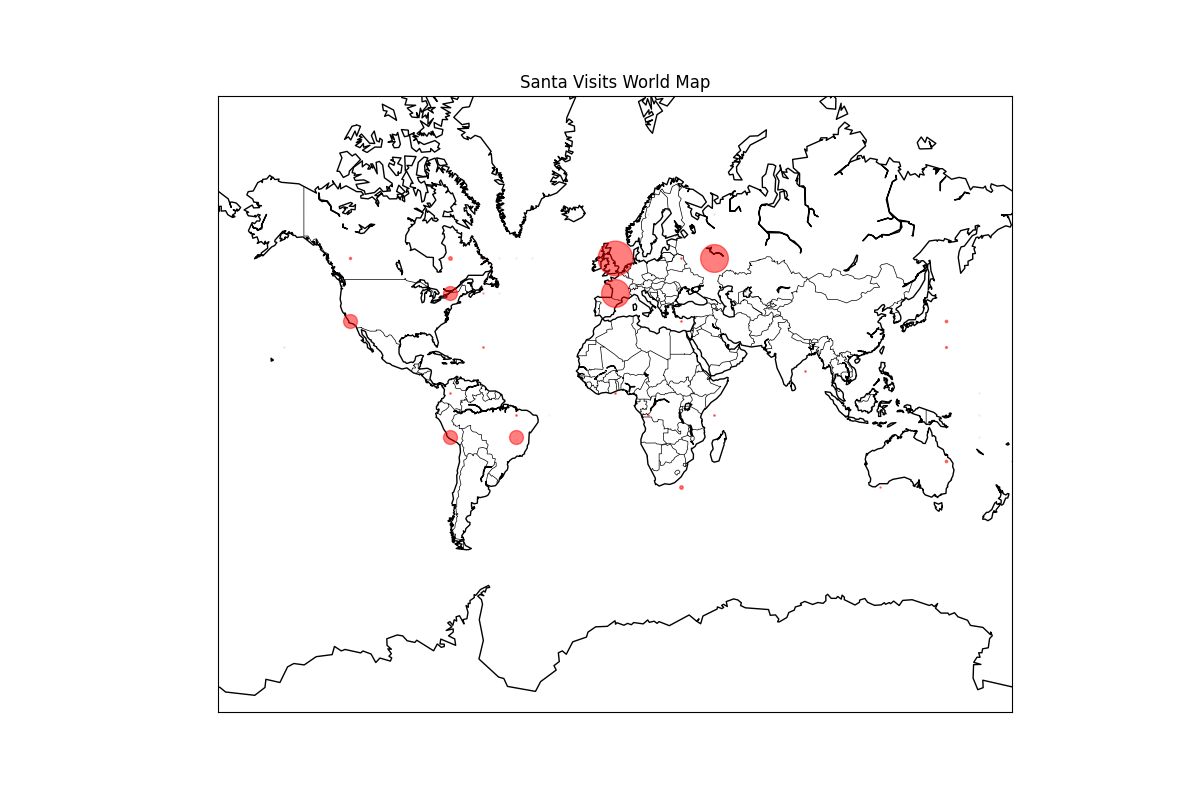
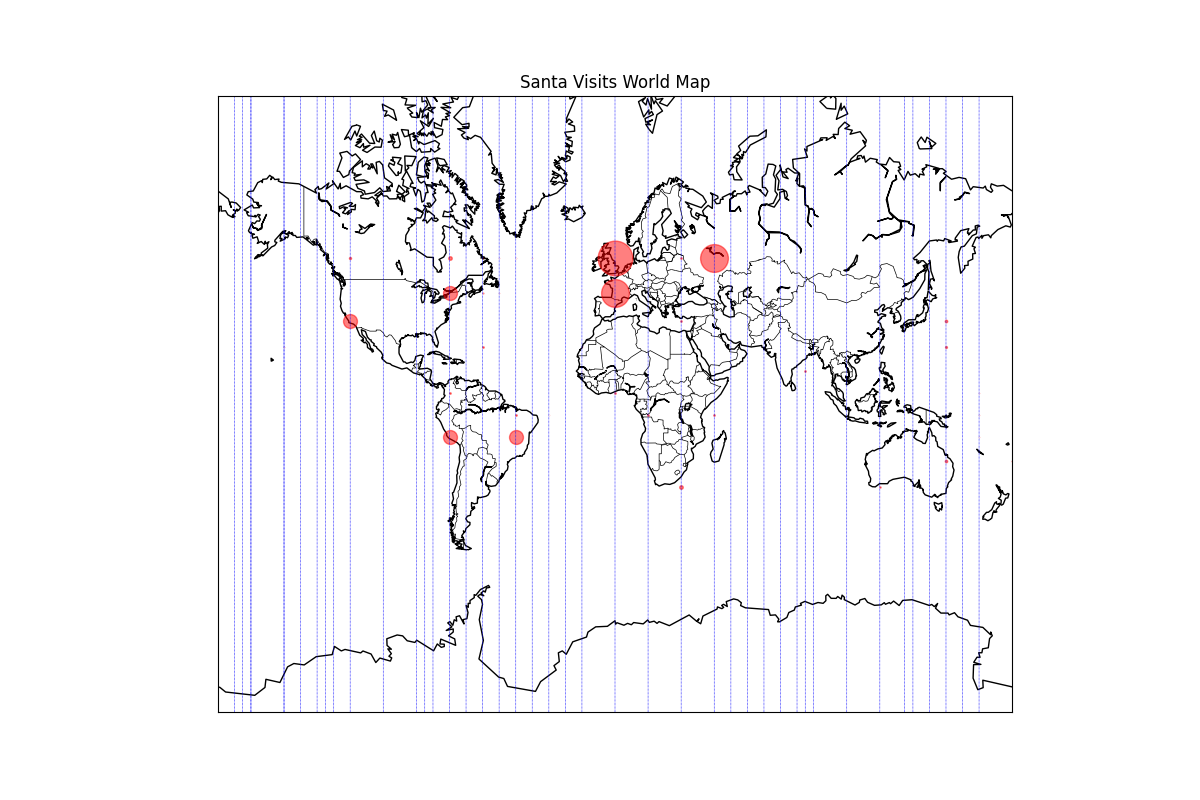
Fix up the AI failures.

diff --git a/worldmap.py b/worldmap.py
@@ -24,11 +24,11 @@ def plot_world_map():
         m.plot(x, y, 'o', markersize=size, alpha=0.5, color='red')
 
     plt.title('Santa Visits World Map')
-    plt.show()
+    unique_longitudes = np.unique(df['longitude'])
+    for lon in unique_longitudes:
+        m.drawmeridians([lon], color='blue', linestyle='dotted', linewidth=0.5)
 
 if __name__ == "__main__":
     plot_world_map()
     plt.savefig('worldmap.png')
-    unique_longitudes = np.unique(df['longitude'])
-    for lon in unique_longitudes:
-        m.drawmeridians([lon], color='blue', linestyle='dotted', linewidth=0.5)
+
